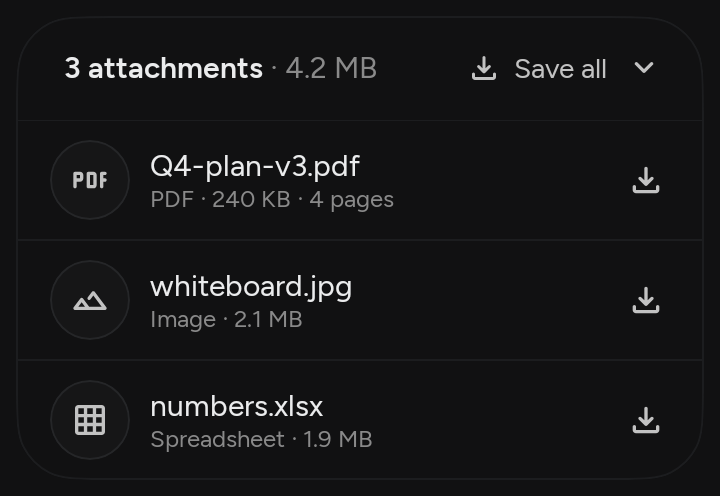
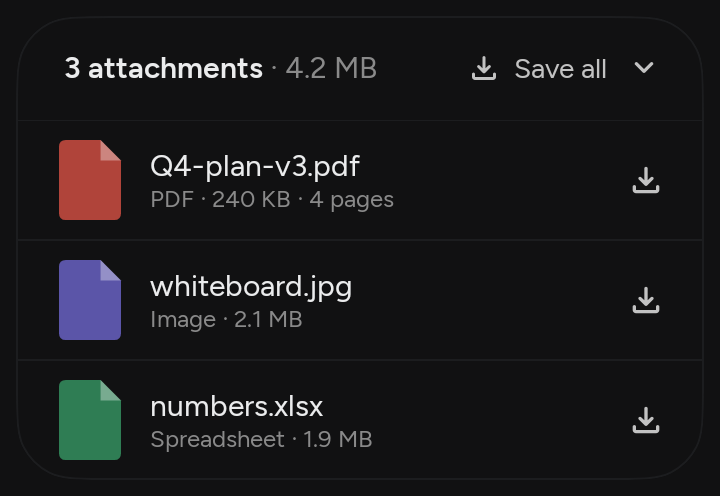
fix(read): record the file strip screenshots and split out MailLine
- Record the opened attachment strip in both themes with its file icons.
- Move MailLine to its own file, which detekt's file name rule asks for.

Changed region(s): [[0.0611, 0.756, 0.1833, 0.9375], [0.0611, 0.5141, 0.1833, 0.6956], [0.0611, 0.2722, 0.1833, 0.4536]]

diff --git a/designsystem/src/commonMain/kotlin/com/otusfoss/core/designsystem/mail/read/components/MoreMail.kt b/designsystem/src/commonMain/kotlin/com/otusfoss/core/designsystem/mail/read/components/MoreMail.kt
@@ -20,14 +20,6 @@ import com.otusfoss.core.designsystem.theme.tokens.content.ReadTokens
 import com.otusfoss.core.designsystem.theme.tokens.rows.StripTokens
 import com.otusfoss.core.designsystem.theme.typography.panelTextStyle
 
-/** One mail in a [MoreMail] list: its [subject], the start of its text, its [date], and whether it is [unread]. */
-public class MailLine(
-    public val subject: String,
-    public val preview: String,
-    public val date: String,
-    public val unread: Boolean = false,
-)
-
 /**
  * Other mail that belongs with the open message, such as more from its sender, as a section that
  * sits straight on a panel: a header with the [title] that runs [onToggle], and, while [open], one

diff --git a/designsystem/src/commonMain/kotlin/com/otusfoss/core/designsystem/mail/read/components/MailLine.kt b/designsystem/src/commonMain/kotlin/com/otusfoss/core/designsystem/mail/read/components/MailLine.kt
@@ -1,0 +1,9 @@
+package com.otusfoss.core.designsystem.mail.read.components
+
+/** One mail in a [MoreMail] list: its [subject], the start of its text, its [date], and whether it is [unread]. */
+public class MailLine(
+    public val subject: String,
+    public val preview: String,
+    public val date: String,
+    public val unread: Boolean = false,
+)
